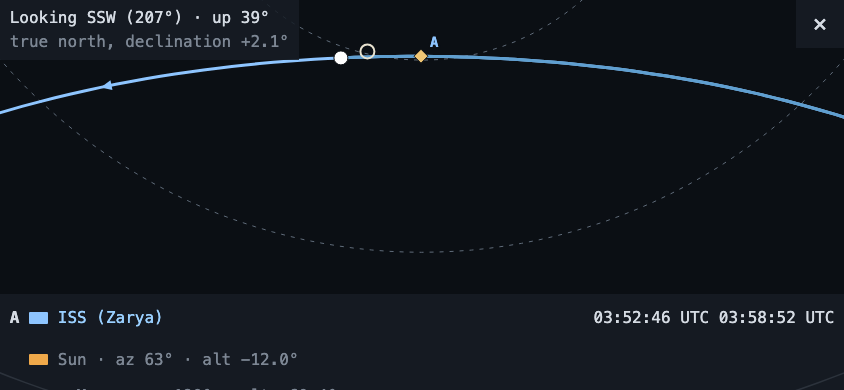
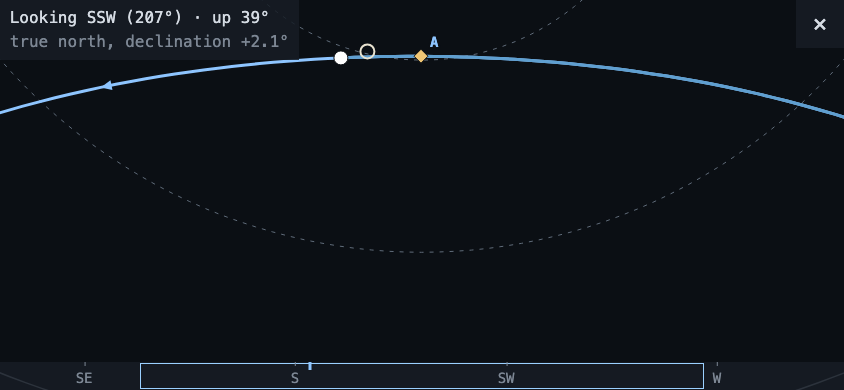
R79: re-shoot the pass detail's sky screen with the gutter (FR-GUT-8)

diff --git a/tests/e2e/captureSet.ts b/tests/e2e/captureSet.ts
@@ -156,7 +156,7 @@ export const SCREENS: readonly CaptureScreen[] = [
   {
     name: 'window',
     widths: [844],
-    what: 'The sky screen opened from a pass detail (FR-FSC-1, FR-FSC-6, R66), aimed at that pass\'s peak by a stubbed orientation reading: the whole arc (FR-DOME-5) filling the viewport, the `×`, the facing readout and the legend. A phone held sideways, which since v1.3.1 is the only place the window is drawn.',
+    what: 'The sky screen opened from a pass detail (FR-FSC-1, FR-FSC-6, R66), aimed at that pass\'s peak by a stubbed orientation reading: the whole arc (FR-DOME-5) filling the viewport, the `×`, the facing readout and, since R79, the compass gutter where the legend strip was (FR-GUT-1). A phone held sideways, which since v1.3.1 is the only place the window is drawn.',
   },
   { name: 'legend', widths: [390, 1280], what: 'The legend in its states (FR-LEG-3): the live page with the hidden objects shown, so the rows carry `up`, `soon`, `gone` and the FR-LIVE-6 reasons, and one row activated so its arc is highlighted and the others dim (FR-LEG-4). Behind `[ list (n) ]` and open at 390, in the rail beside the box at 1280 (FR-LEG-6, FR-LEG-7).' },
   { name: 'favourites', widths: [390, 1280], what: 'The saved places, with the one in use marked.' },
